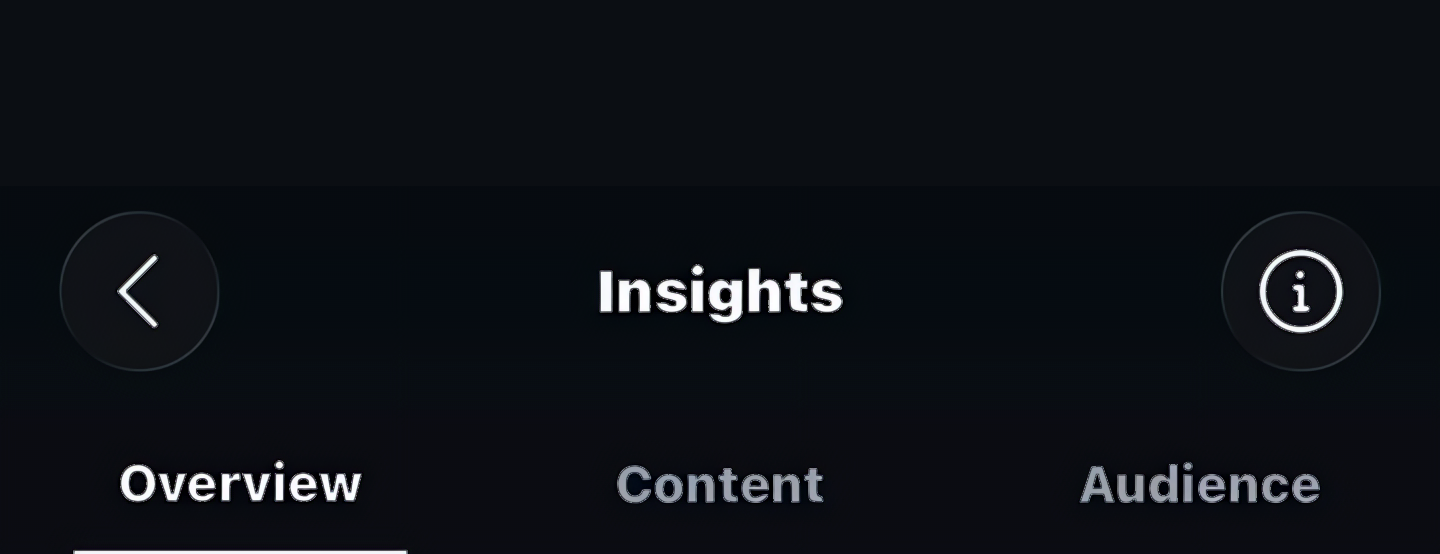
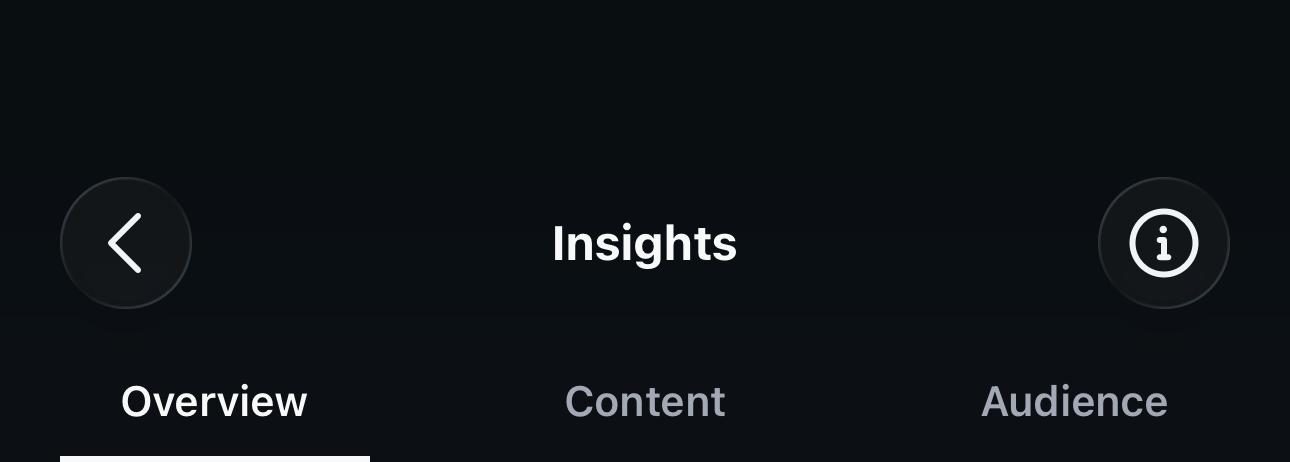
Stitch Views/Insights Overview from iCloud shots 3-2-1 into the existing Insights screen.

diff --git a/new.html b/new.html
@@ -11,12 +11,12 @@
 <meta name="mobile-web-app-capable" content="yes">
 <meta name="apple-mobile-web-app-status-bar-style" content="black-translucent">
 <meta name="theme-color" content="#000000">
-<link rel="manifest" href="manifest_new.json?v=43">
-<link rel="apple-touch-icon" href="icon.png?v=43">
+<link rel="manifest" href="manifest_new.json?v=44">
+<link rel="apple-touch-icon" href="icon.png?v=44">
 <!-- native iOS launch images: iOS shows these INSTANTLY on tap (before our HTML
      loads), killing the system gray phase. Pixel-identical to the in-page splash. -->
-<link rel="apple-touch-startup-image" media="screen and (device-width: 430px) and (device-height: 932px) and (-webkit-device-pixel-ratio: 3) and (orientation: portrait)" href="launch_1290x2796.png?v=43">
-<link rel="apple-touch-startup-image" media="screen and (device-width: 393px) and (device-height: 852px) and (-webkit-device-pixel-ratio: 3) and (orientation: portrait)" href="launch_1179x2556.png?v=43">
+<link rel="apple-touch-startup-image" media="screen and (device-width: 430px) and (device-height: 932px) and (-webkit-device-pixel-ratio: 3) and (orientation: portrait)" href="launch_1290x2796.png?v=44">
+<link rel="apple-touch-startup-image" media="screen and (device-width: 393px) and (device-height: 852px) and (-webkit-device-pixel-ratio: 3) and (orientation: portrait)" href="launch_1179x2556.png?v=44">
 <title>Instagram</title>
 <script>
 if('serviceWorker' in navigator){
@@ -70,14 +70,14 @@ if('serviceWorker' in navigator){
   /* interactions: pinned header (safe-area padding, tiled real-bg strip - the /new1
      pattern) + stitched content + swipe-snap Audience carousel */
   #intHdr{position:sticky;top:0;z-index:10;padding-top:env(safe-area-inset-top,0px);
-          background:#0c1115 url(screens/n_int_hdr_bg.png?v=43) repeat-y;background-size:100% 3px;}
+          background:#0c1115 url(screens/n_int_hdr_bg.png?v=44) repeat-y;background-size:100% 3px;}
   #intHdr img{display:block;width:100%;}
   /* carousel: two snap stops (Top cities at 0, Top countries at D=1066/1290 of the
      viewport). Drag and release -> the card settles into place; ends clamp. */
   #audSnap{width:100%;overflow-x:auto;overflow-y:hidden;scroll-snap-type:x mandatory;
            -webkit-overflow-scrolling:touch;background:#0c1115;}
   #audTrack{width:182.6357%;display:flex;aspect-ratio:2356/685;
-            background:url(screens/n_aud_strip.png?v=43) no-repeat;background-size:100% 100%;}
+            background:url(screens/n_aud_strip.png?v=44) no-repeat;background-size:100% 100%;}
   #audTrack .sA{width:45.2462%;scroll-snap-align:start;}
   #audTrack .sB{width:54.7538%;scroll-snap-align:start;}
 </style>
@@ -89,7 +89,7 @@ if('serviceWorker' in navigator){
     <!-- HOME -->
     <div class="screen active" id="s-home">
       <div class="sheet">
-        <img src="screens/n_home.png?v=43">
+        <img src="screens/n_home.png?v=44">
         <div class="hot" style="left:80%;top:89%;width:20%;height:9%" onclick="goProfile()"></div>
       </div>
     </div>
@@ -97,7 +97,7 @@ if('serviceWorker' in navigator){
     <!-- PROFILE -->
     <div class="screen navpad" id="s-profile">
       <div class="sheet">
-        <img src="screens/n_profile.png?v=43">
+        <img src="screens/n_profile.png?v=44">
         <div class="hot" style="left:3%;top:36%;width:94%;height:7%" onclick="goDashboard()"></div>
       </div>
     </div>
@@ -105,7 +105,7 @@ if('serviceWorker' in navigator){
     <!-- DASHBOARD -->
     <div class="screen" id="s-dashboard">
       <div class="sheet">
-        <img id="dashImg" src="screens/n_dash.png?v=43">
+        <img id="dashImg" src="screens/n_dash.png?v=44">
         <!-- Views row -> insights. This capture has no Interactions row
              (Views / New followers / Content). Extra rows stay unwired. -->
         <div class="hot" style="left:0;top:17.8%;width:100%;height:4.8%" onclick="goInsights()"></div>
@@ -115,11 +115,11 @@ if('serviceWorker' in navigator){
     <!-- INTERACTIONS -->
     <div class="screen navpad" id="s-interactions">
       <div id="intHdr">
-        <img src="screens/n_int_header.png?v=43">
+        <img src="screens/n_int_header.png?v=44">
         <div class="hot" style="left:0;top:0;width:16%;height:58%" onclick="goBackDash()"></div>
       </div>
       <div class="sheet">
-        <img src="screens/n_int_top.png?v=43">
+        <img src="screens/n_int_top.png?v=44">
       </div>
       <div id="audSnap">
         <div id="audTrack"><div class="sA"></div><div class="sB"></div></div>
@@ -130,12 +130,12 @@ if('serviceWorker' in navigator){
     <!-- INSIGHTS -->
     <div class="screen" id="s-insights">
       <div id="insHeader">
-        <img id="himg" src="insights_overview_header2.png?v=43">
+        <img id="himg" src="insights_overview_header2.png?v=44">
         <div class="hot" style="left:0;top:65%;width:33.3%;height:35%" onclick="insTab('overview')"></div>
         <div class="hot" style="left:66.7%;top:65%;width:33.3%;height:35%" onclick="insTab('audience')"></div>
       </div>
-      <div id="insContent"><img id="cimg" src="insights_overview_full.png?v=43"></div>
-      <div id="insLoading"><img id="loadImg" src="screens/ins_spinner_c.png?v=43"></div>
+      <div id="insContent"><img id="cimg" src="insights_overview_full.png?v=44"></div>
+      <div id="insLoading"><img id="loadImg" src="screens/ins_spinner_c.png?v=44"></div>
     </div>
 
   </div>
@@ -205,7 +205,7 @@ if('serviceWorker' in navigator){
     document.body.style.background = '#0d1115';
   });
 
-  const ASSET_V = '?v=43';   // bump when any screen image changes (cache-bust mobile)
+  const ASSET_V = '?v=44';   // bump when any screen image changes (cache-bust mobile)
   const el = id => document.getElementById(id);
   // Flow-model navigation: exactly one screen is .active (in normal flow, so it sets
   // the document height and iOS places the safe areas naturally). Transitions overlay

diff --git a/sw.js b/sw.js
@@ -4,7 +4,7 @@
 // background. If the background refresh finds a NEW app shell, clients are notified
 // so they can silently reload while the splash still covers the screen.
 // Bump CACHE on each deploy; activate purges older caches.
-const CACHE = 'ig-v43';
+const CACHE = 'ig-v44';
 
 self.addEventListener('install', () => self.skipWaiting());
 

diff --git a/screens/CROP.md b/screens/CROP.md
@@ -24,3 +24,18 @@ The live PWA uses `black-translucent` status bar, so iOS draws the real time/bat
    - `screens/n_dash.png`
 
 After swapping images, bump `?v=` in `new.html` and `CACHE` in `sw.js`.
+
+## Insights Overview (Views) stitch
+
+Dashboard **Views** already opens the existing Insights screen (`goInsights()`). Replace the two Overview PNGs; do not rebuild that page.
+
+Source: numbered 1290 × 2796 shots from an iCloud folder (`1.PNG`, `2.PNG`, `3.PNG`). Content order is **3 → 2 → 1** (3 is the top of the page; 1 is the bottom). Do not stitch 1-2-3 by filename.
+
+1. Paint the top **177 px** of shot 3 (status bar), same as home/profile/dash.
+2. Header is shot 3, `y = 0 … 462` (through the Overview tab underline) → `insights_overview_header2.png`.
+3. Body is overlap-matched on unique rows (not empty gray bars):
+   - shot 3 `y = 462 … 2480`
+   - shot 2 `y = 540 … 1890`
+   - shot 1 `y = 1350 … ~2609`
+   → `insights_overview_full.png`
+4. Audience tab still uses the existing `insights_audience_*` pair until new Audience shots arrive.
